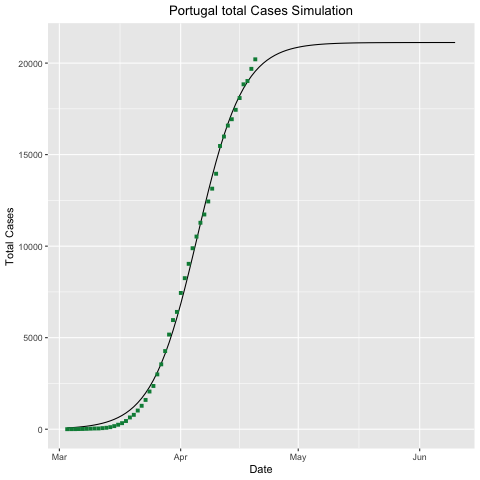
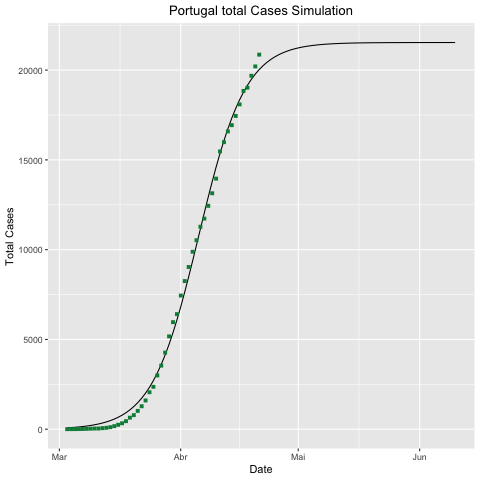
daily commit

diff --git a/README.md b/README.md
@@ -11,30 +11,30 @@ I'll keep this repo with the graphs daily updated.
 
 *Obtained with the script* `propagationMap.R`
 
-### Updated World Values - 2020/04/20
+### Updated World Values - 2020/04/21
 __Total Deaths per Country - worst 10__
 
 |geoId | deaths|
 |:-----|------:|
-|US    |  40682|
-|IT    |  23660|
-|ES    |  20453|
-|FR    |  19718|
-|UK    |  16060|
-|BE    |   5683|
-|IR    |   5118|
+|US    |  42539|
+|IT    |  24114|
+|ES    |  20852|
+|FR    |  20265|
+|UK    |  16509|
+|BE    |   5828|
+|IR    |   5209|
 |CN    |   4636|
-|DE    |   4404|
-|NL    |   3684|
+|DE    |   4598|
+|NL    |   3751|
 
 
-__Total Death Count__: 164656
+__Total Death Count__: 169859
 
-__Portugal in Detail at 2020/04/20__ *sourced from https://www.worldometers.info/*
+__Portugal in Detail at 2020/04/21__ *sourced from https://www.worldometers.info/*
 
 |Country,Other |TotalCases |NewCases |TotalDeaths |NewDeaths |TotalRecovered |ActiveCases |Serious,Critical |Tot Cases/1M pop |Deaths/1M pop |TotalTests |Tests/1M pop |Continent |
 |:-------------|:----------|:--------|:-----------|:---------|:--------------|:-----------|:----------------|:----------------|:-------------|:----------|:------------|:---------|
-|Portugal      |20,863     |+657     |735         |+21       |610            |19,518      |215              |2,046            |72            |235,878    |23,133       |Europe    |
+|Portugal      |21,379     |+516     |762         |+27       |917            |19,700      |213              |2,097            |75            |271,962    |26,672       |Europe    |
 
 
 
